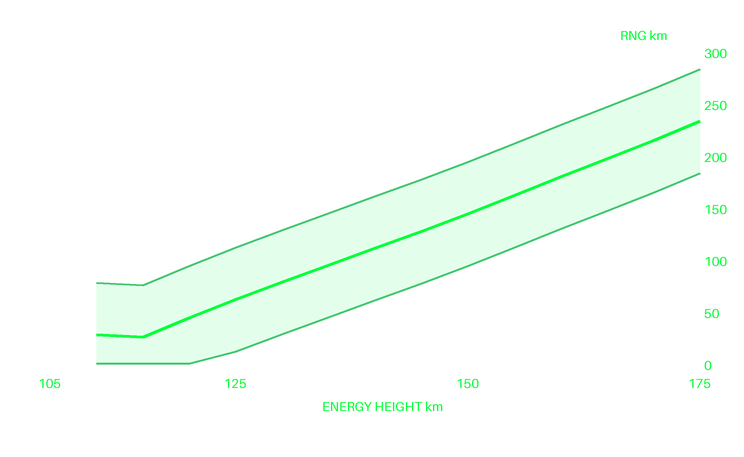
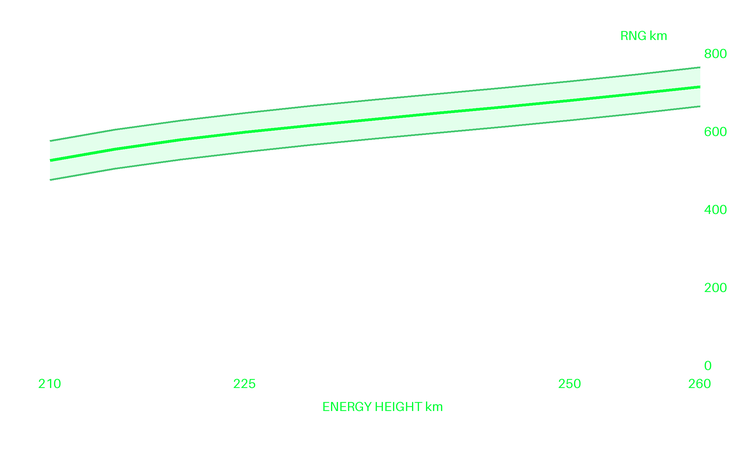
Split entry display into five V/SIT pages

diff --git a/README.md b/README.md
@@ -210,7 +210,7 @@ For a same-body orbital rendezvous, choose **Rendezvous** in Orbital Maneuvering
 
 When adding an abort mode, keep its behavior behind the abort-mode dispatcher and give it a dedicated flight-phase state. Add user-facing documentation only after the mode is implemented and tested with the Poseidon craft. This keeps the abort section easy to extend without documenting work-in-progress behavior.
 
-`TRAJ 1 V/SIT` and `TRAJ 2 V/SIT` are zoomed upper and lower views of one fixed energy-height/range corridor generated from successful `reentry_low` flight logs. The generator uses the median remaining range at each energy height, encloses every accepted source flight, and keeps a minimum ±50 km corridor. Rebuild the KerboScript profile and both backgrounds after selecting a new representative set:
+`TRAJ 1 V/SIT` through `TRAJ 5 V/SIT` are successively zoomed views of one fixed energy-height/range corridor generated from successful `reentry_low` flight logs. Their energy bands are 260–290, 210–260, 170–210, 140–170, and 100–140 km. Their corresponding RNG ceilings are 1,100, 800, 600, 300, and 200 km, making the vehicle's position inside the corridor readable throughout entry. The generator uses the median remaining range at each energy height, encloses every accepted source flight, and keeps a minimum ±50 km corridor. Rebuild the KerboScript profile and all five backgrounds after selecting a new representative set:
 
 ```sh
 python3 support/build_entry_nominal.py \
@@ -219,7 +219,7 @@ python3 support/build_entry_nominal.py \
   /path/to/flight_256 /path/to/flight_260 /path/to/flight_265
 ```
 
-Above 30 km the display uses `TRAJ 1 V/SIT`; below 30 km it changes to the enlarged lower segment in `TRAJ 2 V/SIT`. TEAM then uses the wide `TRAJ 3 L/SIT` and the close-in `TRAJ 4 L/SIT`. Validate regenerated displays and page transitions in KSP; the offline GUI workbench approximates kOS layout but is not a Unity renderer.
+The active page follows energy height and clamps only beyond the complete 100–290 km display span. TEAM then uses the wide `L/SIT 1` and the close-in `L/SIT 2`. Validate regenerated displays and page transitions in KSP; the offline GUI workbench approximates kOS layout but is not a Unity renderer.
 
 ## Credits
 
